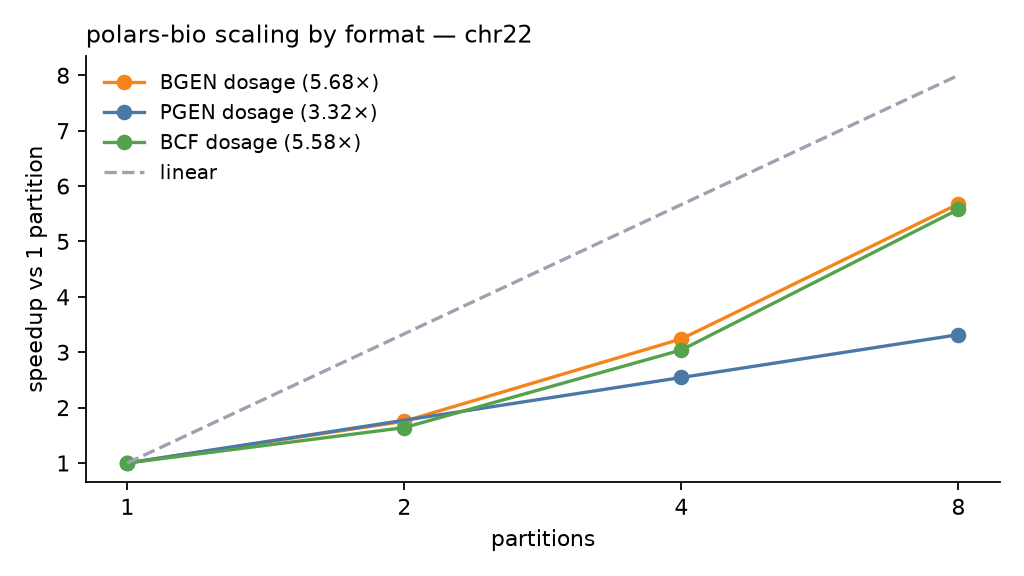
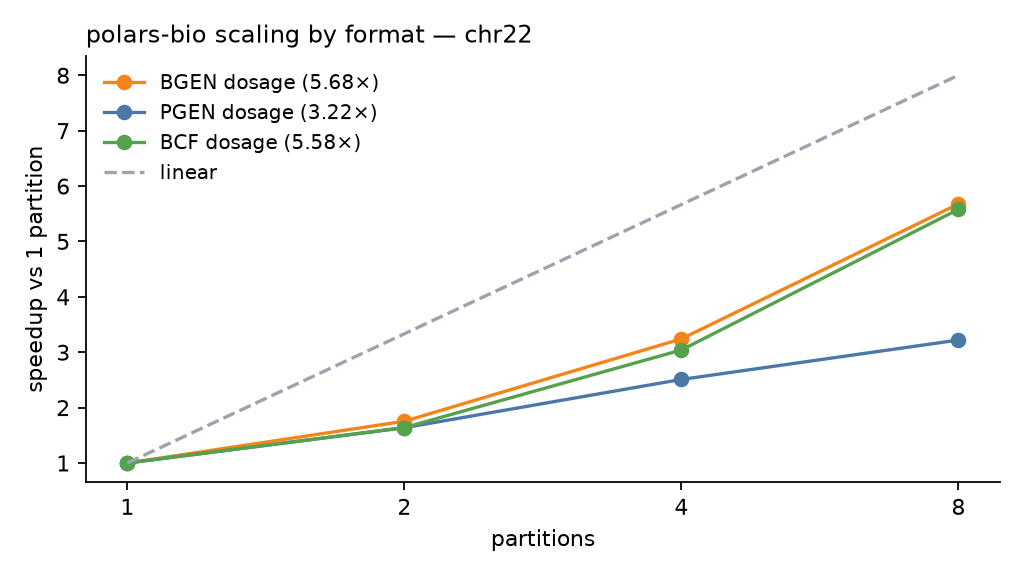
docs(blog): full 1-8 partition scaling for all three formats
PGEN re-run at every partition count rather than 1/4/8, so the three
series are directly comparable: BCF 5.58x, BGEN 5.68x, PGEN 3.22x at
eight.

PGEN's figures moved slightly on the fresh run (3.32x -> 3.22x at eight),
which is session drift of the kind this post already warns about, not a
change in the reader. The table and the figure come from the same run.

Changed region(s): [[0.2188, 0.5625, 0.9375, 0.7812], [0.1562, 0.7812, 0.2188, 0.8125], [0.3125, 0.1875, 0.3438, 0.2188]]

diff --git a/docs/blog/posts/bcf-genotype-readers-2026-08.md b/docs/blog/posts/bcf-genotype-readers-2026-08.md
@@ -246,18 +246,15 @@ one-partition time, on the same chromosome.
 
 | Partitions | BCF | PGEN | BGEN |
 |---:|---:|---:|---:|
-| 2 | 1.64× | not measured | 1.75× |
-| 4 | 3.04× | 2.54× | 3.24× |
-| 8 | **5.58×** | **3.32×** | **5.68×** |
+| 2 | 1.64× | 1.64× | 1.75× |
+| 4 | 3.04× | 2.51× | 3.24× |
+| 8 | **5.58×** | **3.22×** | **5.68×** |
 
 **PGEN is the outlier, and not because its decoder is worse.** It is the
 fastest of the three per byte, which means the dense-matrix materialisation
 becomes the dominant term sooner — and that copy saturates memory bandwidth at
 about 2.8× however many threads it gets. BCF and BGEN have more decode work per
 byte to divide, so they track the decoder further before hitting the same wall.
-
-PGEN was measured at one, four and eight partitions; the two-partition point was
-never run and is left out rather than interpolated.
 
 None of this is a like-for-like comparison against the other readers, which are
 single-threaded — it is reported separately from the tables above for that
